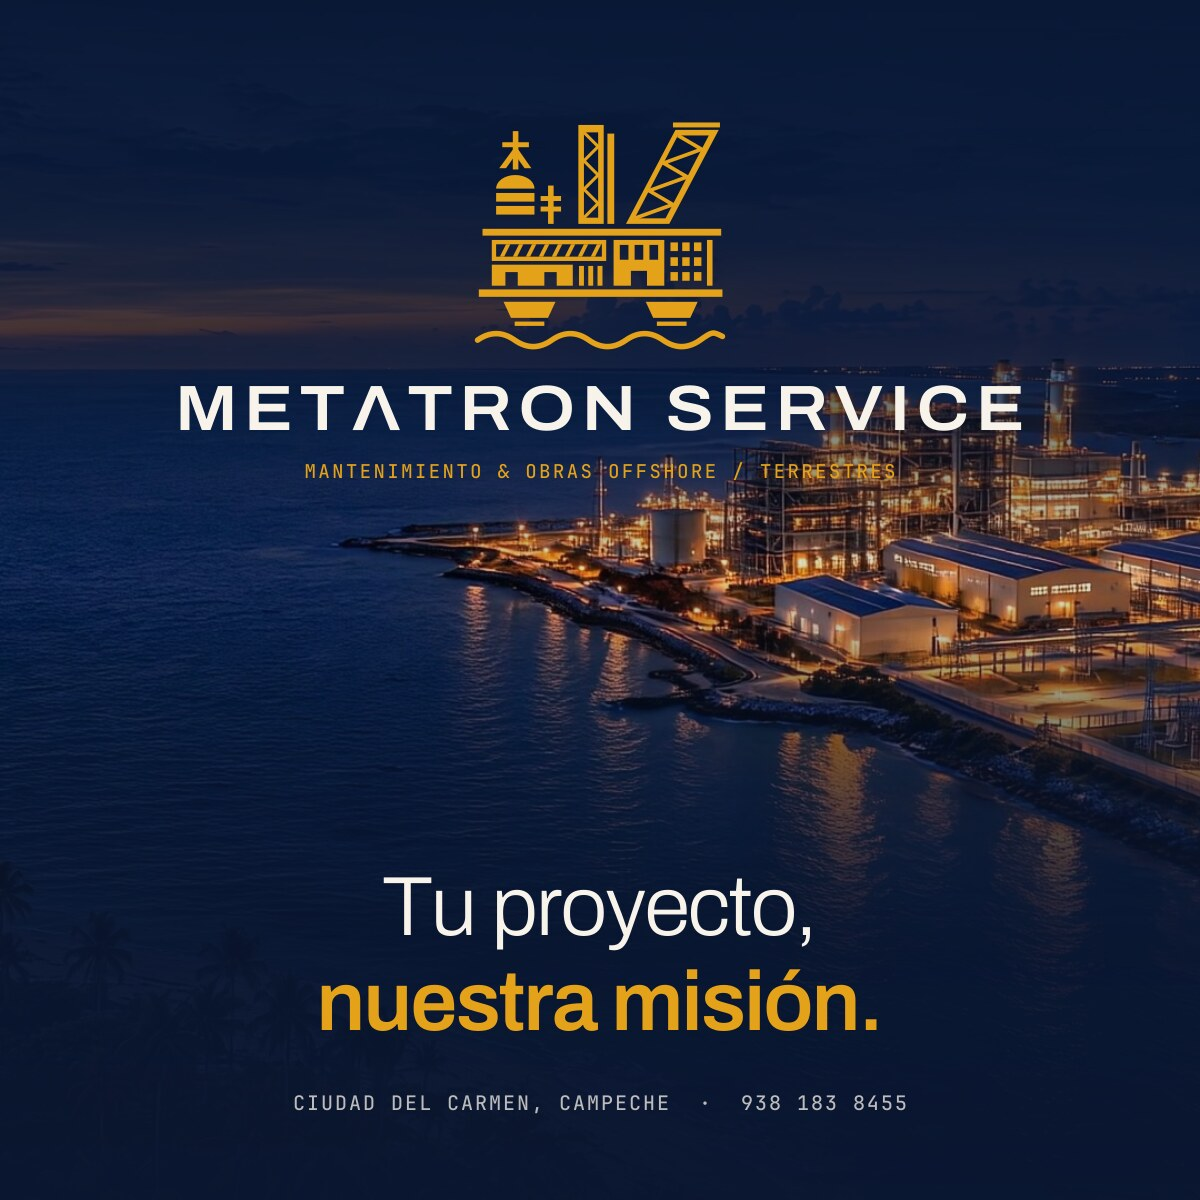
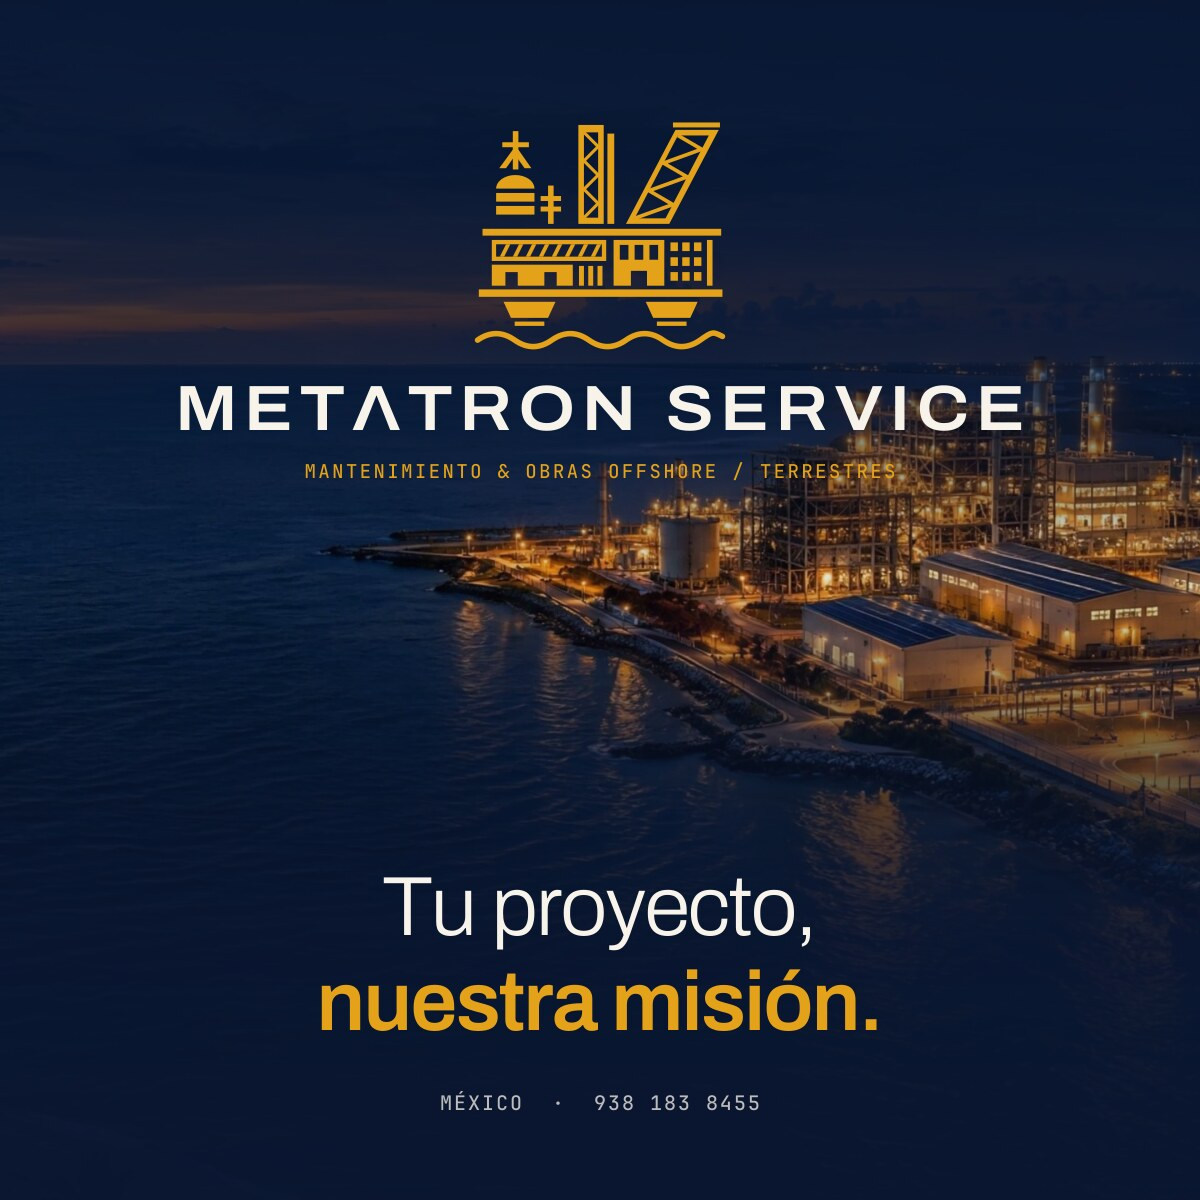
feat(copy): position the brand nationally instead of locally
Drop the city from titles, hero and share images; keep the office address in
footer, schema and geo meta for local search.

diff --git a/src/data/site.ts b/src/data/site.ts
@@ -8,9 +8,9 @@ export const site = {
   tagline: 'Mantenimiento y obras offshore / terrestres',
   slogan: 'Tu proyecto, nuestra misión.',
   claim: 'Fuerza, compromiso y experiencia que construye confianza.',
-  title: 'Metatron Service | Mantenimiento y obras offshore y terrestres en Ciudad del Carmen, Campeche',
+  title: 'Metatron Service | Mantenimiento industrial y obras offshore y terrestres en México',
   description:
-    'Mantenimiento industrial y obras offshore y terrestres en Ciudad del Carmen, Campeche: obra eléctrica, sistemas fotovoltaicos, aire acondicionado, aislamiento térmico, obra civil y estructural. Cotiza tu proyecto.',
+    'Mantenimiento industrial y obras offshore y terrestres en México: obra eléctrica, sistemas fotovoltaicos, aire acondicionado, aislamiento térmico, obra civil y estructural. Cotiza tu proyecto.',
   locale: 'es_MX',
   lang: 'es-MX',
   phone: '+529381838455',
@@ -32,7 +32,7 @@ export const site = {
     displayName: 'Ing. José Antonio Jiménez',
     role: 'Gerente de Proyectos',
   },
-  areaServed: ['Ciudad del Carmen', 'Campeche', 'Sonda de Campeche', 'Golfo de México', 'México'],
+  areaServed: ['México', 'Golfo de México'],
   pillars: ['Calidad', 'Seguridad', 'Compromiso'],
   mission:
     'Somos un equipo íntegro, orientado al servicio del Cliente, mejorando continuamente nuestros procesos, con el objetivo de consolidar nuestra empresa con un reconocido prestigio Nacional por su eficiencia, calidad y competitividad.',
@@ -97,9 +97,9 @@ export const services: Service[] = [
       'Mantenimiento preventivo y correctivo',
       'Reparación de inversores y cableado',
     ],
-    keywords: ['paneles solares', 'inversores', 'energía solar Campeche'],
+    keywords: ['paneles solares', 'inversores', 'energía solar industrial'],
     image: 'solar',
-    alt: 'Técnico caminando entre filas de paneles solares sobre la azotea de una nave industrial en Campeche',
+    alt: 'Técnico caminando entre filas de paneles solares sobre la azotea de una nave industrial',
   },
   {
     id: 'aire-acondicionado',
@@ -150,7 +150,7 @@ export const services: Service[] = [
       'Fabricación de locales de gobierno',
       'Plafón, tablaroca, aplanados y nivelación de juntas',
     ],
-    keywords: ['construcción Ciudad del Carmen', 'tablaroca', 'bardas perimetrales'],
+    keywords: ['obra civil comercial', 'tablaroca', 'bardas perimetrales'],
     image: 'civil',
     alt: 'Obra civil comercial al anochecer con barda de block, banquetas nuevas y local iluminado',
   },
@@ -242,7 +242,7 @@ export const faqs = [
   },
   {
     q: '¿Dónde opera Metatron Service?',
-    a: 'La empresa tiene base en Ciudad del Carmen, Campeche, México, y realiza mantenimiento y obras tanto terrestres como offshore (costa afuera) en la región del Golfo de México.',
+    a: 'Metatron Service atiende proyectos de mantenimiento y obra en México, tanto terrestres como offshore (costa afuera) en el Golfo de México. Su oficina base está en Ciudad del Carmen, Campeche.',
   },
   {
     q: '¿Realizan trabajos offshore o costa afuera?',

diff --git a/src/lib/llms.ts b/src/lib/llms.ts
@@ -7,7 +7,7 @@ const addr = `${site.address.street}, C.P. ${site.address.postalCode}, ${site.ad
 export function llmsTxt() {
   return `# ${site.name}
 
-> ${site.name} es una empresa de mantenimiento y obras offshore (costa afuera) y terrestres con base en Ciudad del Carmen, Campeche, México. Ofrece obra eléctrica, sistemas fotovoltaicos, aire acondicionado, aislamiento térmico, obra civil y obra estructural para la industria.
+> ${site.name} es una empresa mexicana de mantenimiento y obras offshore (costa afuera) y terrestres que atiende proyectos en México, con oficina base en Ciudad del Carmen, Campeche. Ofrece obra eléctrica, sistemas fotovoltaicos, aire acondicionado, aislamiento térmico, obra civil y obra estructural para la industria.
 
 - Ubicación: ${addr}
 - Teléfono / WhatsApp: ${site.phoneDisplay} (${site.phone})

diff --git a/tools/brand/og.py b/tools/brand/og.py
@@ -72,7 +72,7 @@ W, H = 1200, 630
 b = [f'<rect width="{W}" height="{H}" fill="url(#fadeL)"/>']
 b.append(lockup(72, 64, 54, 26))
 b.append(f'<rect x="72" y="176" width="44" height="3" fill="{GOLD}"/>')
-b.append(txt(MONO, 'CIUDAD DEL CARMEN · CAMPECHE · MX', 15, 132, 183, GOLD, tracking=2.2)[0])
+b.append(txt(MONO, 'OFFSHORE · TERRESTRE · MÉXICO', 15, 132, 183, GOLD, tracking=2.2)[0])
 b.append(txt(light, 'Mantenimiento y obras', 64, 70, 280, WHITE, tracking=-1.2)[0])
 t, w1 = txt(semi, 'offshore', 64, 70, 358, GOLD, tracking=-1.2)
 b.append(t)
@@ -99,7 +99,7 @@ t, w1 = txt(light, 'Tu proyecto,', 84, 0, 0, WHITE, tracking=-2)
 b.append(t.replace('translate(0.0 0.0)', f'translate({(W - w1) / 2:.1f} 935)'))
 t, w2 = txt(semi, 'nuestra misión.', 84, 0, 0, GOLD, tracking=-2)
 b.append(t.replace('translate(0.0 0.0)', f'translate({(W - w2) / 2:.1f} 1030)'))
-t, w3 = txt(MONO, 'CIUDAD DEL CARMEN, CAMPECHE  ·  938 183 8455', 20, 0, 0, WHITE, tracking=2, opacity=.75)
+t, w3 = txt(MONO, 'MÉXICO  ·  938 183 8455', 20, 0, 0, WHITE, tracking=2, opacity=.75)
 b.append(t.replace('translate(0.0 0.0)', f'translate({(W - w3) / 2:.1f} 1110)'))
 render('og-square', W, H, f'{IMG}/frame-final.jpg', '\n'.join(b))
 
@@ -117,7 +117,7 @@ for i, (s, f, c) in enumerate([('Fuerza,', light, WHITE), ('compromiso y', light
                                 ('confianza.', semi, WHITE)]):
     t, lw = txt(f, s, 104, 0, 0, c, tracking=-2.5)
     b.append(t.replace('translate(0.0 0.0)', f'translate({(W - lw) / 2:.1f} {1240 + i * 112})'))
-t, w3 = txt(MONO, '938 183 8455  ·  CD. DEL CARMEN, CAMP.', 22, 0, 0, WHITE, tracking=2, opacity=.8)
+t, w3 = txt(MONO, '938 183 8455  ·  MÉXICO', 22, 0, 0, WHITE, tracking=2, opacity=.8)
 b.append(t.replace('translate(0.0 0.0)', f'translate({(W - w3) / 2:.1f} 1840)'))
 render('og-story', W, H, f'{IMG}/frame-inicio-movil.jpg', '\n'.join(b))
 print('ok')
